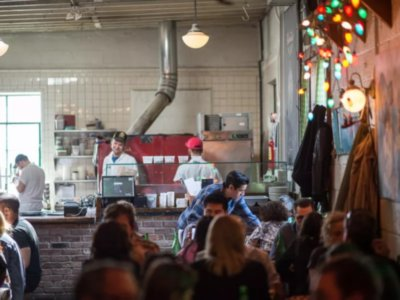
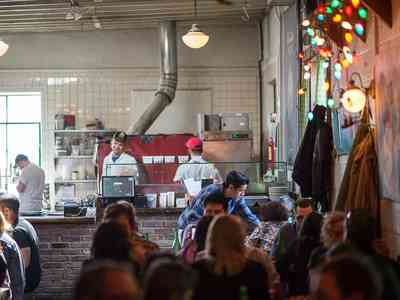
feat: Compress images. Rewrite picture element builder to work with sizes and picture width

diff --git a/js/htmlelementbuilder.js b/js/htmlelementbuilder.js
@@ -2,16 +2,35 @@ class HtmlElementBuilder {
   static createPictureElement(restaurant, existingPicture, existingImage) {
     const imageUrl400 = DBHelper.imageUrlForRestaurant(restaurant, 400);
     const imageUrl800 = DBHelper.imageUrlForRestaurant(restaurant, 800);
+    const imageUrl800Compressed = DBHelper.imageUrlForRestaurant(restaurant, 800, true);
 
     const picture = existingPicture || document.createElement('picture');
 
+    // const source400 = document.createElement('source');
+    // source400.media = '(max-width: 400px)';
+    // source400.srcset = `${imageUrl400} 1x, ${imageUrl800Compressed} 2x`;
+    // picture.append(source400);
+
+    // const source800 = document.createElement('source');
+    // source800.media = '(max-width: 800px)';
+    // source800.srcset = `${imageUrl800Compressed} 1x, ${imageUrl800} 2x`;
+    // picture.append(source800);
+
     const source400 = document.createElement('source');
-    source400.media = '(max-width: 400px)';
-    source400.srcset = `${imageUrl400} 1x, ${imageUrl800} 2x`;
+    source400.media = '(max-width: 460px)';
+    source400.sizes = '90vw';
+    source400.srcset = `${imageUrl400} 400w, ${imageUrl800} 800w`;
     picture.append(source400);
+
+    // const source800 = document.createElement('source');
+    // source800.media = '(max-width: 800px)';
+    // source800.srcset = `${imageUrl800Compressed} 1x, ${imageUrl800} 2x`;
+    // picture.append(source800);
 
     const image = existingImage || document.createElement('img');
     image.src = imageUrl800;
+    image.sizes = '50vw';
+    image.srcset = `${imageUrl400} 400w, ${imageUrl800Compressed} 800w, ${imageUrl800} 1600w`;
     image.className = 'restaurant-img';
     image.alt = '';
     picture.append(image);

diff --git a/css/main.css b/css/main.css
@@ -53,8 +53,6 @@ header {
 #restaurants-list li {
   background-color: #fff;
   border: 2px solid #ccc;
-  border-top-left-radius: 20px;
-  border-bottom-right-radius: 20px;
   font-family: Arial,sans-serif;
   margin: 15px;
   min-height: 380px;
@@ -71,7 +69,6 @@ header {
   max-width: 100%;
   min-height: 248px;
   min-width: 100%;
-  border-top-left-radius: 10px;
 }
 
 #restaurants-list li h2 {
@@ -178,6 +175,7 @@ header {
 @media screen and (max-width: 380px) {
   #restaurants-list .restaurant-img {
     min-height: 150px;
+    min-width: 200px;
   }
 
   nav h1 a {

diff --git a/js/dbhelper.js b/js/dbhelper.js
@@ -149,8 +149,9 @@ class DBHelper {
   /**
    * Restaurant image URL.
    */
-  static imageUrlForRestaurant(restaurant, size = 800) {
-    return (`/img/${size}/${restaurant.photograph}`);
+  static imageUrlForRestaurant(restaurant, size = 800, isCompressed = false) {
+    const compressedSuffix = isCompressed ? '-compressed' : '';
+    return (`/img/${size}${compressedSuffix}/${restaurant.photograph}`);
   }
 
   /**
